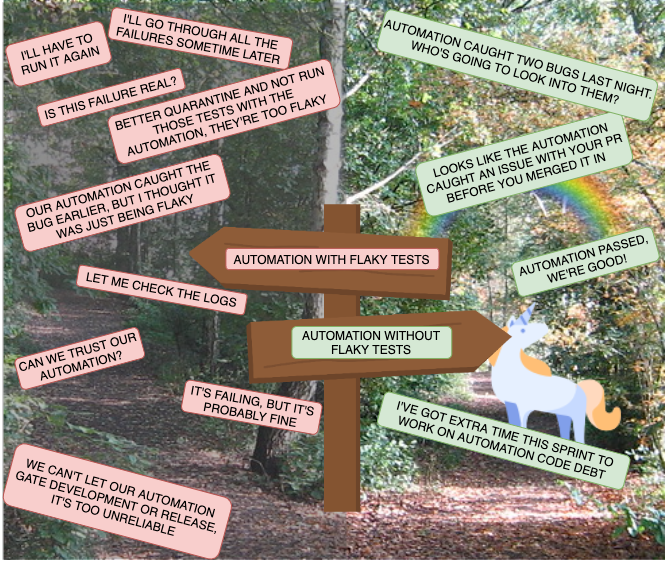
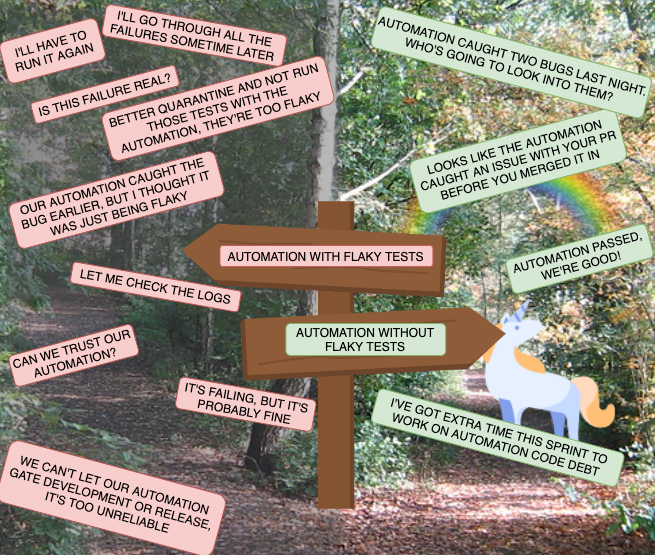
Center image in Readme

diff --git a/README.md b/README.md
@@ -3,7 +3,9 @@
 
 Powerful Resilience Against Flaky Test Steps
 
-![](assets/FlakyTwoRoads.png)
+<p align="center">
+  <img src="https://github.com/eBay/TargetedAutoRetry/blob/main/assets/FlakyTwoRoads.png" />
+</p>
 
 Flaky tests are a notorious industry wide problem, especially for UI tests. Ever since powerful automated testing tools have been available, developers and testers have struggled to reduce their flakiness.
 ## Global Auto Retry
